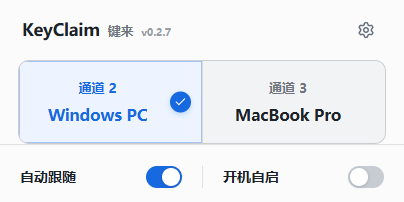
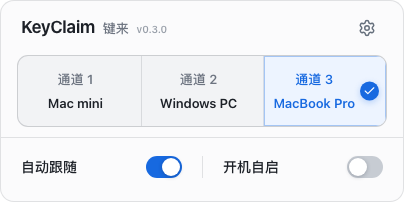
更新三通道界面示例与说明

diff --git a/src/api.ts b/src/api.ts
@@ -95,7 +95,7 @@ const browserSnapshot: AppSnapshot = {
     lastSeenMs: Date.now(),
   },
   peerHost: {
-    name: "Windows 工作站",
+    name: "Windows PC",
     platform: "windows",
     channel: 2,
     online: true,
@@ -104,7 +104,7 @@ const browserSnapshot: AppSnapshot = {
   },
   hosts: [
     { hostId: "mac-mini", name: "Mac mini", platform: "macos", channel: 1, online: true, ready: true, lastSeenMs: Date.now() - 640 },
-    { hostId: "windows", name: "Windows 工作站", platform: "windows", channel: 2, online: true, ready: true, lastSeenMs: Date.now() - 820 },
+    { hostId: "windows", name: "Windows PC", platform: "windows", channel: 2, online: true, ready: true, lastSeenMs: Date.now() - 820 },
     { hostId: "browser-preview", name: "MacBook Pro", platform: "macos", channel: 3, online: true, ready: true, lastSeenMs: Date.now() },
   ],
   keyboard: {
@@ -123,7 +123,7 @@ const browserSnapshot: AppSnapshot = {
   activities: [
     { id: "1", timestamp: "10:42:18", title: "键盘已归位", detail: "MX Keys → MacBook Pro · 通道 3", kind: "success" },
     { id: "2", timestamp: "10:42:17", title: "检测到本地输入", detail: "触控板移动 · 目标主机已就绪", kind: "claim" },
-    { id: "3", timestamp: "10:36:04", title: "另一台电脑已就绪", detail: "Windows 工作站 · 局域网握手成功", kind: "network" },
+    { id: "3", timestamp: "10:36:04", title: "另一台电脑已就绪", detail: "Windows PC · 局域网握手成功", kind: "network" },
   ],
   lastLocalInputMs: Date.now() - 1_200,
   pendingClaim: false,

diff --git a/src/App.css b/src/App.css
@@ -127,7 +127,7 @@ main { display: flex; flex-direction: column; }
 }
 .channel-count-3 .channel { padding-right: 16px; padding-left: 8px; }
 .channel-count-3 .channel.is-active { padding-right: 30px; }
-.channel-count-3 .channel strong { font-size: 14px; }
+.channel-count-3 .channel strong { font-size: 13px; }
 .channel-count-3 .active-mark { right: 7px; width: 19px; height: 19px; }
 
 .quick-controls {
